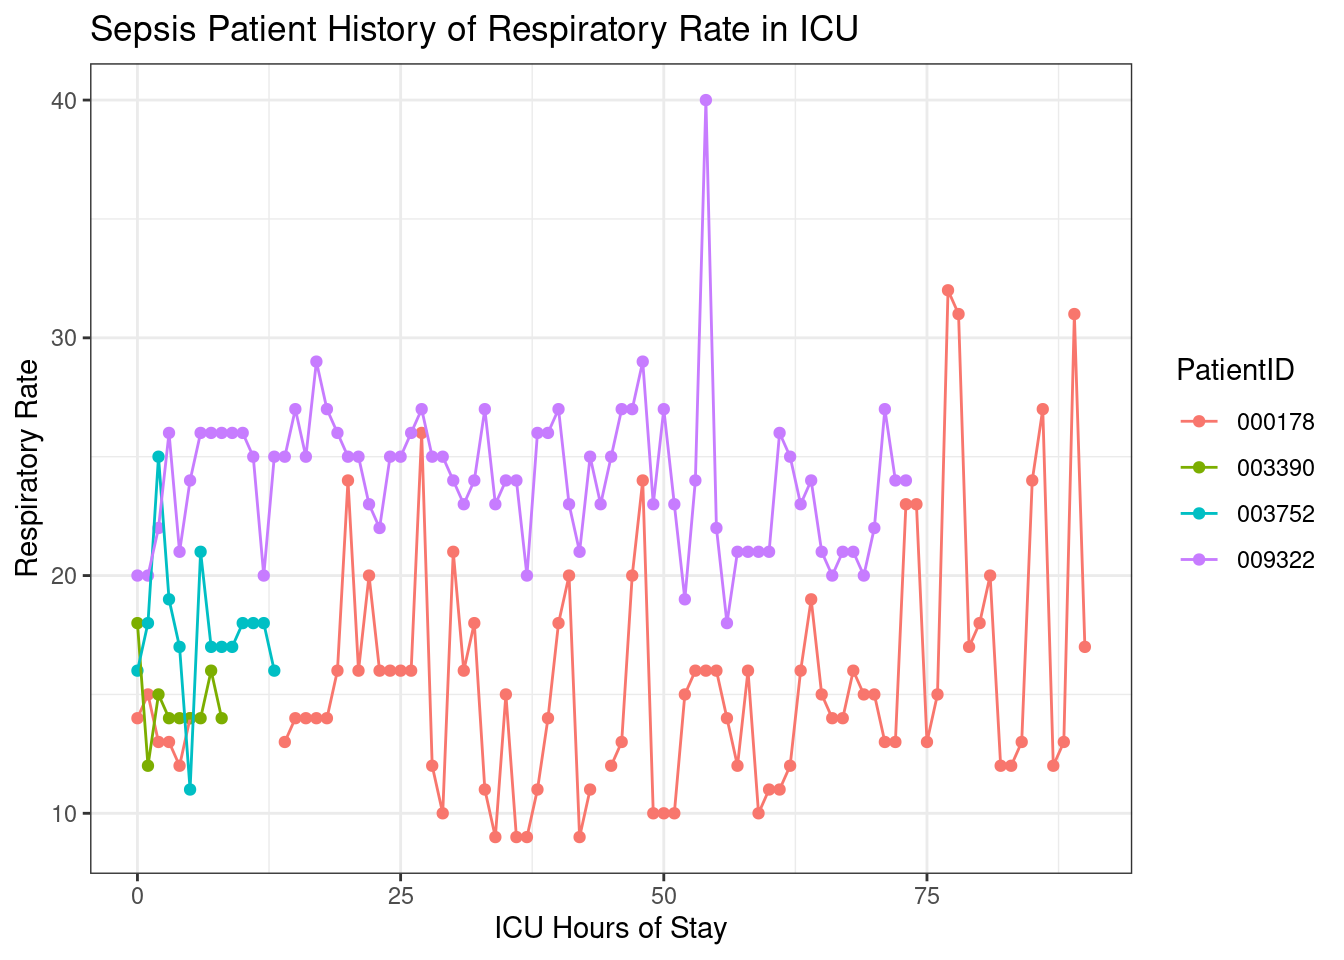
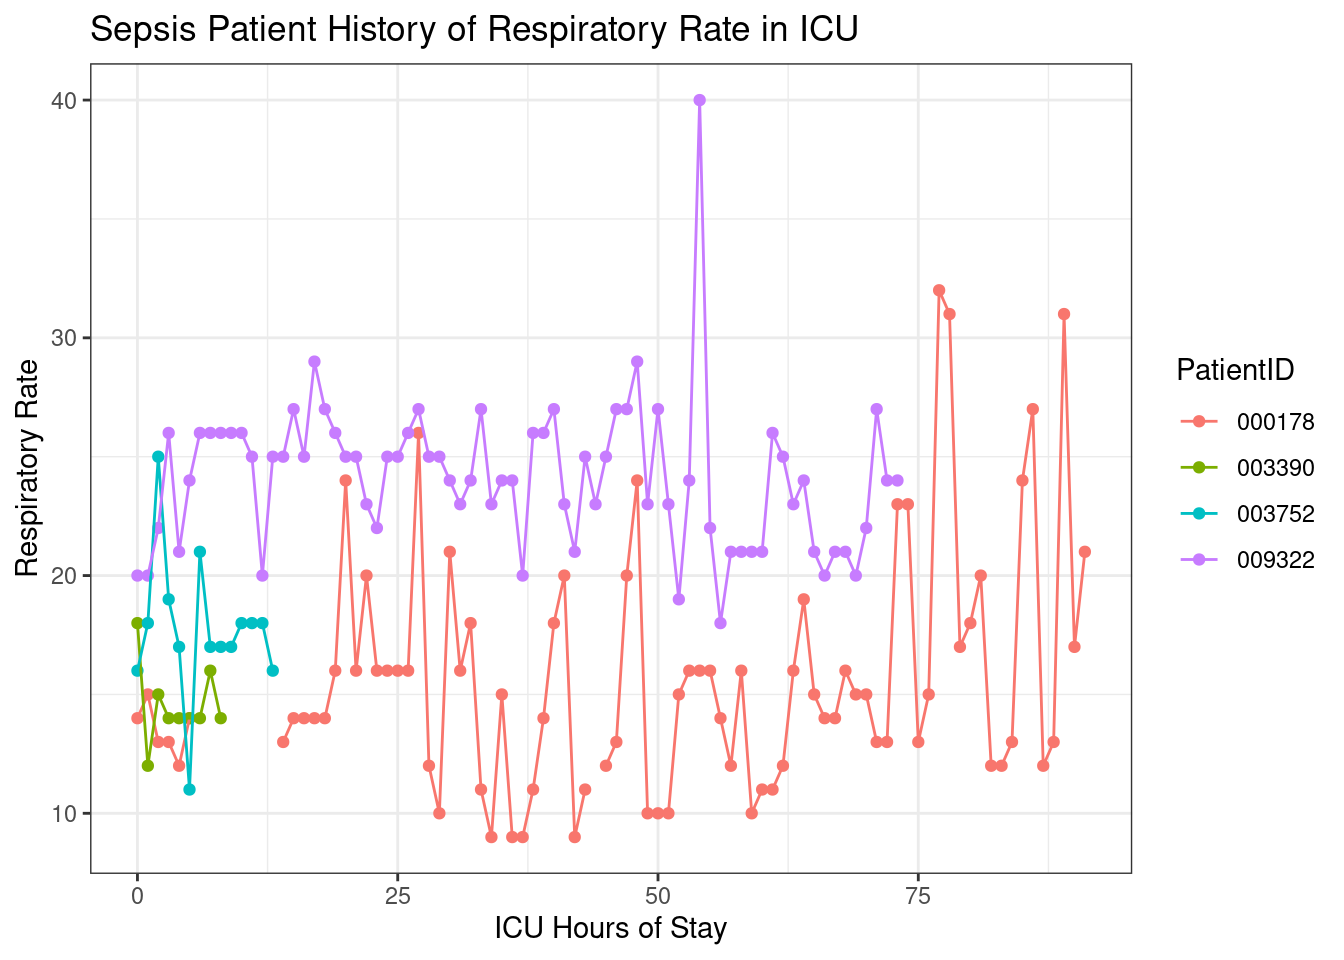
Updated report

diff --git a/A7.html b/A7.html
@@ -63,7 +63,7 @@ ul.task-list li input[type="checkbox"] {
 
 </header>
 
-<p>Report Last run 2023-04-12 11:10:08</p>
+<p>Report Last run 2023-04-12 12:21:09</p>
 <div class="cell">
 
 </div>
@@ -72,7 +72,7 @@ ul.task-list li input[type="checkbox"] {
 </div>
 <section id="task-4-make-an-icu-status-report" class="level1">
 <h1>Task 4: Make an ICU status report</h1>
-<p>This report was generated on 2023-04-12 11:10:10.</p>
+<p>This report was generated on 2023-04-12 12:21:11.</p>
 <div class="cell">
 <div class="cell-output-display">
 
@@ -90,10 +90,10 @@ ul.task-list li input[type="checkbox"] {
 <tbody>
   <tr>
    <td style="text-align:left;"> 000178 </td>
-   <td style="text-align:right;"> 90 </td>
-   <td style="text-align:right;"> 119 </td>
+   <td style="text-align:right;"> 91 </td>
+   <td style="text-align:right;"> 114 </td>
    <td style="text-align:right;"> NA </td>
-   <td style="text-align:right;"> 17 </td>
+   <td style="text-align:right;"> 21 </td>
   </tr>
   <tr>
    <td style="text-align:left;"> 003390 </td>
